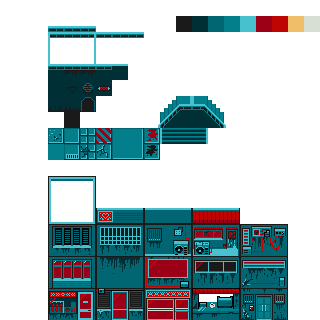
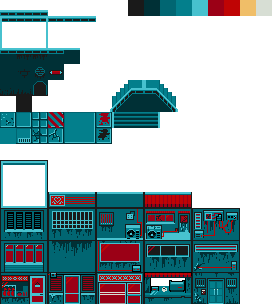
Implement background kind of

diff --git a/index.html b/index.html
@@ -36,6 +36,19 @@
         var myObstacles = [];
         var myScore;
 
+        let x = 0;
+        let y = 0;
+
+        // Background is 139
+        // StartTile is the index in the map that should be the tile at 0, 0 at the start of the game
+        // The start tile is drawn in the middle of the screen initially
+        const startTileX = 1;
+        const startTileY = 0;
+        const map = [
+            [139, 138, 137],
+            [139, 120, ]
+        ];
+
         function startGame() {
             myScore = new component("30px", "Consolas", "black", 280, 40, "text");
             myGameArea.start();
@@ -58,7 +71,7 @@
 
 
 
-        function drawSprite(sheet, spriteIndex, x, y) {
+        function drawSprite(sheet, spriteIndex, x, y, scale) {
             const size = 16;
             let columns = Math.floor(sheet.width / size);
             if (columns <= 0) columns = 0;
@@ -72,12 +85,12 @@
             ctx.drawImage(
                 sheet,
                 sX, sY, size, size, // Source - where to crop from the sheet
-                x, y, 64, 64    // Destination - where to draw it
+                x, y, scale, scale    // Destination - where to draw it
             );
         }
 
         function background(width, height) {
-
+            const scale = 32;
             this.backSheet = new Image();
             this.backSheet.src = "neo_zero_tiles_and_buildings_01.png";
             this.loaded = false;
@@ -86,17 +99,32 @@
             }
 
             this.draw = function () {
-                if (this.loaded) {
-                    
-                    drawSprite(this.backSheet, 12, 10, 10);
-                    // ctx.drawImage(this.backSheet, 10, 10);
-                    // ctx.drawImage(
-                    //     this.backSheet,
-                    //     0, 0, 160, 160,  // Source rectangle
-                    //     10, 10, 64, 64 // Destination rectangle, enlarged 4x
-                    // );
+                if (!this.loaded) return;
+
+                const canvas = myGameArea.canvas;
+
+                // Centre the starting tile on the canvas
+                const startScreenX = canvas.width / 2 - scale / 2;
+                const startScreenY = canvas.height / 2 - scale / 2;
+
+                // Draw each tile in the map
+                for (let row = 0; row < map.length; row++) {
+                    for (let col = 0; col < map[row].length; col++) {
+                        const spriteIndex = map[row][col];
+
+                        const screenX = startScreenX + (col - startTileX) * scale;
+                        const screenY = startScreenY + (row - startTileY) * scale;
+
+                        drawSprite(
+                            this.backSheet,
+                            spriteIndex,
+                            screenX,
+                            screenY,
+                            scale
+                        );
+                    }
                 }
-            }
+            };
 
         }
 
